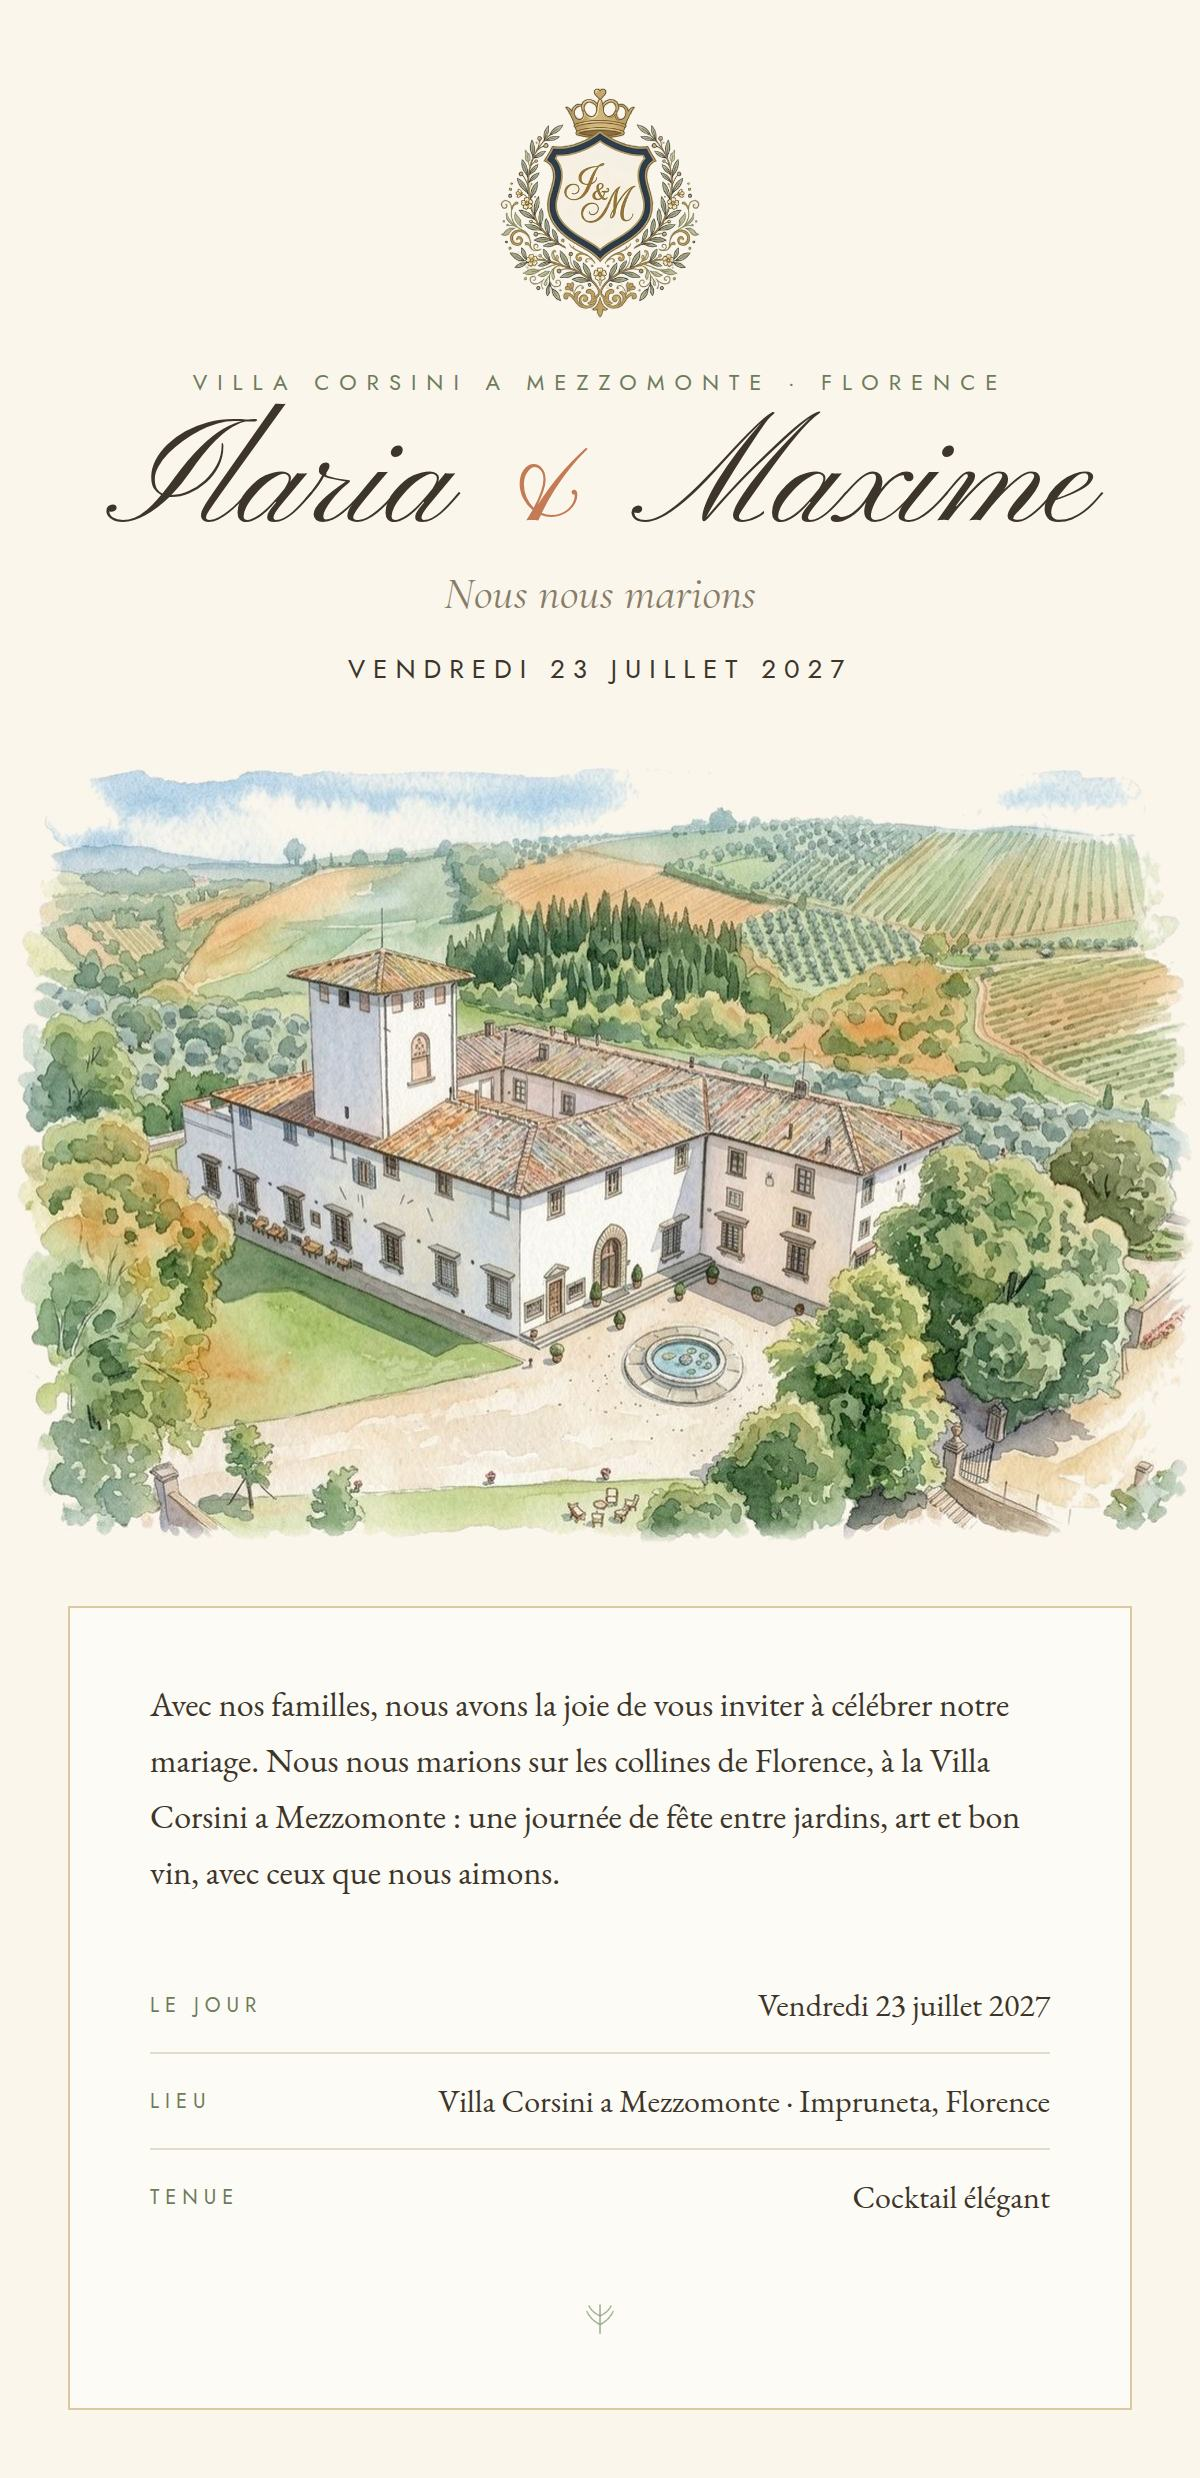
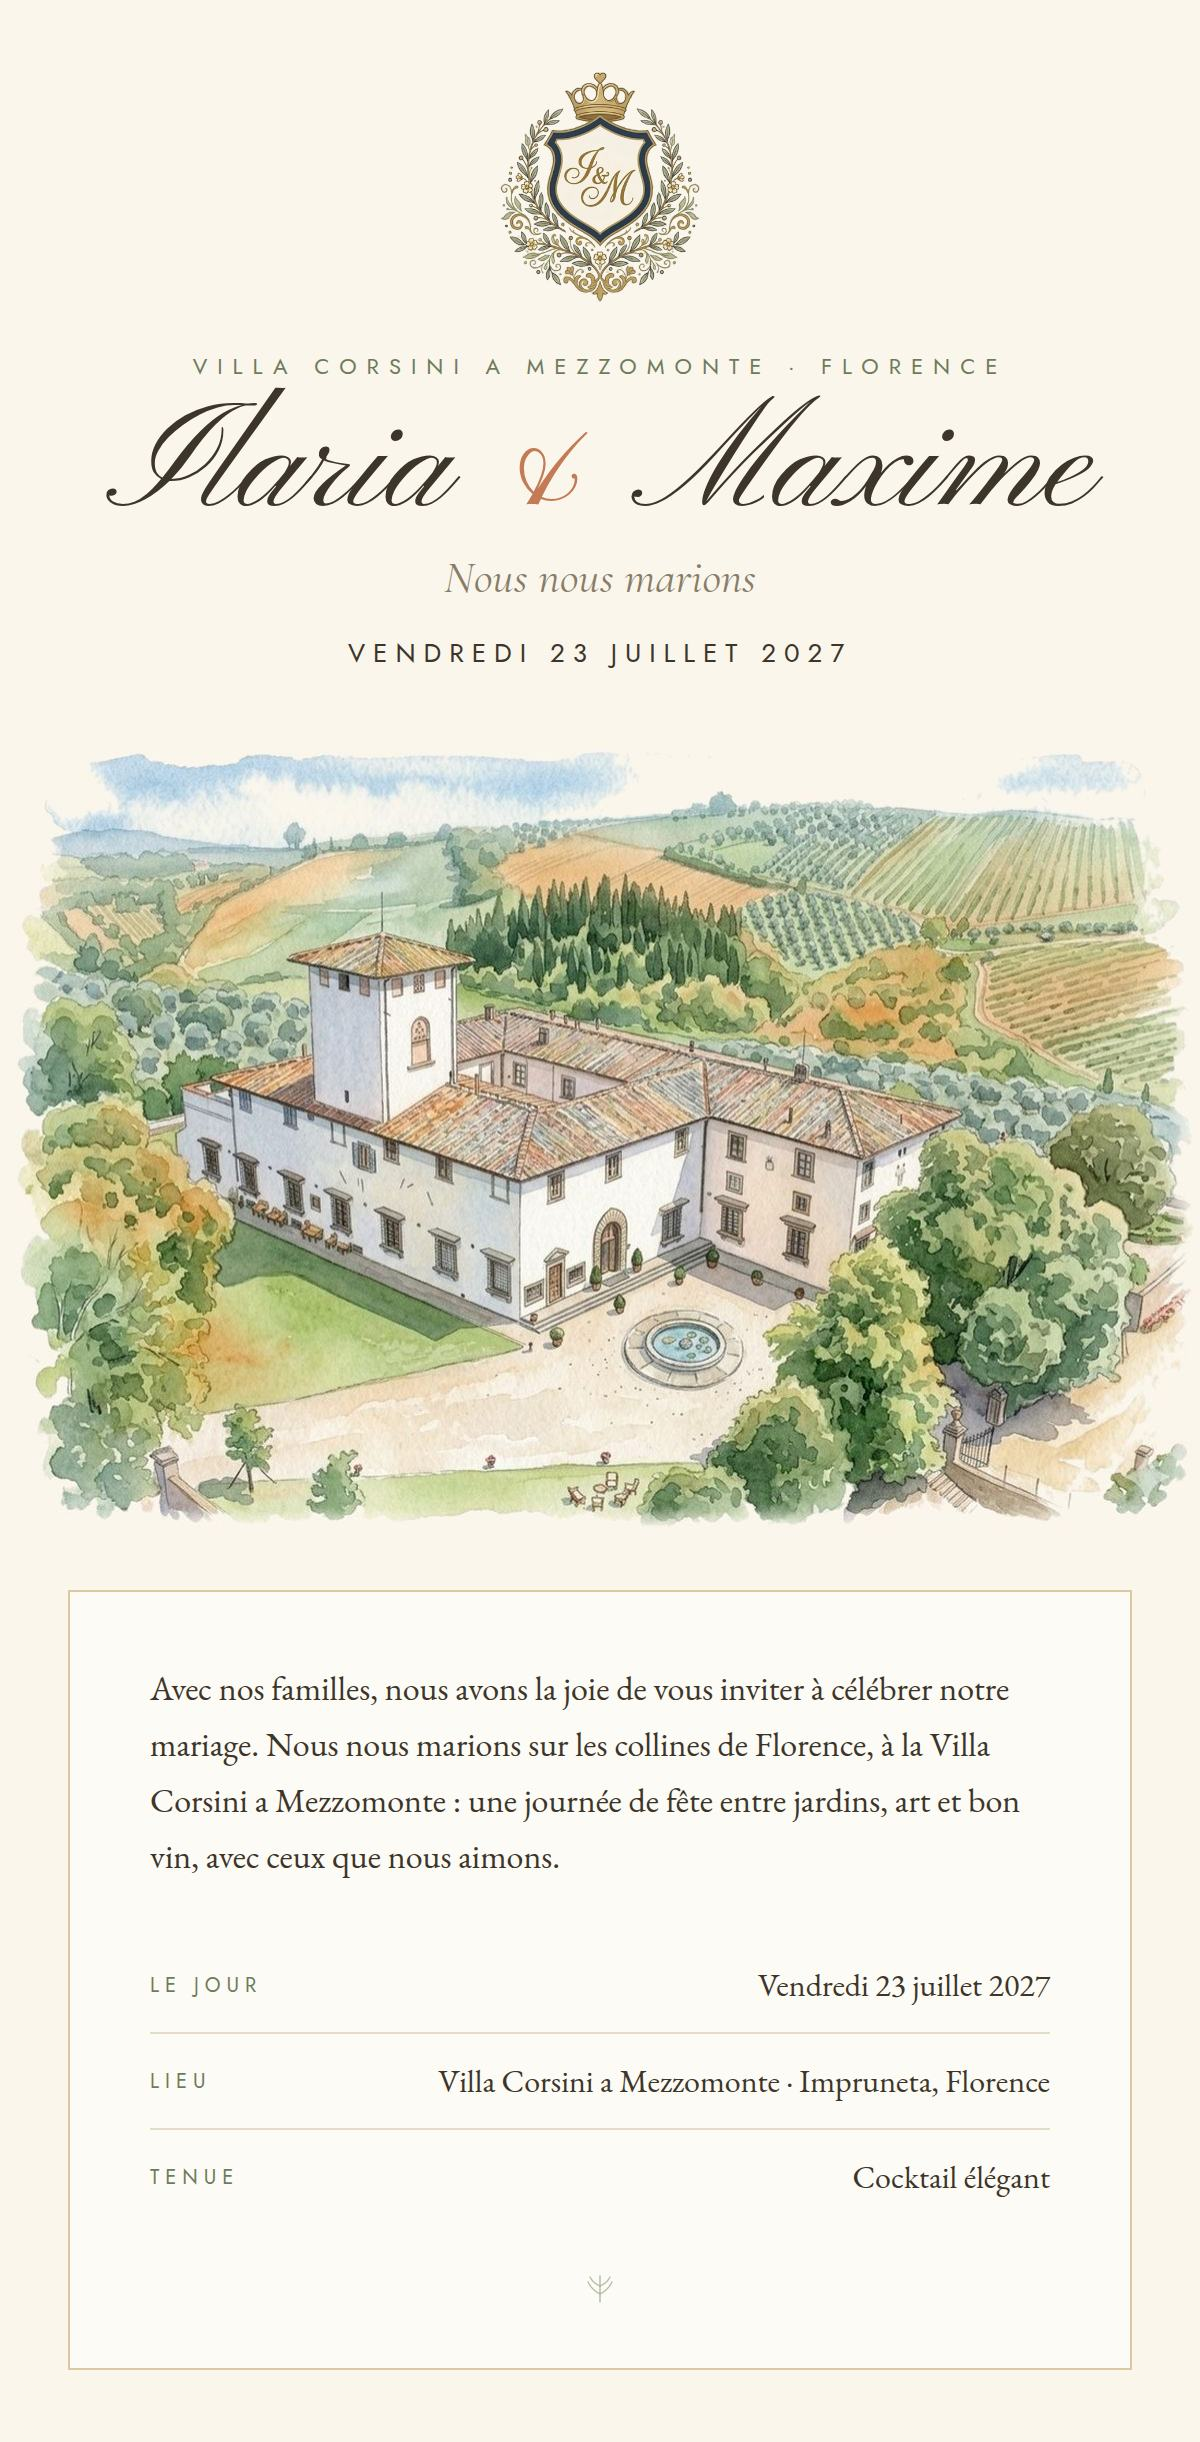
Recompose the invitation as one letter rather than a card with leftovers
Splitting the card out left the email reading as two stapled-together things:
a designed invitation, then a pile of text blocks under it - an orphaned
greeting floating above everything, the personal note in a tinted box, the
plus-one welcome in a different colour again, and the wordmark appearing
twice.

It now reads in three movements, which is how a letter actually works: a
personal opening in the couple's own voice - greeting, their note, the
plus-one welcome, all one paragraph in one colour - then the formal
invitation, then one compact strip telling the guest how to reply. One
wordmark, at the end, where a signature goes.

The card also kept the space its greeting and plus-one line used to occupy;
its head and foot are tightened to suit what it now holds.

Claude-Session: https://claude.ai/code/session_01WFYf9ePHzRaJm7JcUWVSwK

diff --git a/tools/invites/preview/invite-preview.html b/tools/invites/preview/invite-preview.html
@@ -401,11 +401,14 @@ function buildEmail_(g){
      the card can, in every client, which is how stationery services solve
      this. Everything a guest has to *act* on stays live text below it: the
      password to read, the link to press, the date to remember. */
+  /* Three movements, not a card with leftovers stapled underneath:
+     a personal opening in the couple's own voice, the formal invitation
+     itself, and one compact strip telling the guest how to reply. */
   const html =
 `<!doctype html><html lang="${g.lang}"><head><meta charset="utf-8">
 <meta name="viewport" content="width=device-width,initial-scale=1">
 <meta name="x-apple-disable-message-reformatting">
-<style>a{text-decoration:none} @media (max-width:620px){.px{padding-left:22px!important;padding-right:22px!important}}</style>
+<style>a{text-decoration:none} @media (max-width:620px){.px{padding-left:26px!important;padding-right:26px!important}}</style>
 </head>
 <body style="margin:0;padding:0;background:${T.panna2};">
 <div style="display:none;max-height:0;overflow:hidden;opacity:0;">${c.tag} — ${c.date}, Villa Corsini a Mezzomonte.</div>
@@ -415,20 +418,17 @@ function buildEmail_(g){
 
   <table role="presentation" width="600" cellpadding="0" cellspacing="0" bgcolor="${T.panna}" style="width:600px;max-width:100%;background:${T.panna};">
 
-    <tr><td class="px" style="padding:34px 52px 0;font-family:${T.fDisplay};font-size:22px;color:${T.ink};">${esc_(greet)}</td></tr>
-
-    <tr><td style="padding:24px 0 0;">
+    <tr><td class="px" style="padding:44px 56px 0;font-family:${T.fDisplay};font-size:23px;line-height:1.3;color:${T.ink};">${esc_(greet)}</td></tr>
+${note}${plus}
+    <tr><td style="padding:20px 0 0;">
       <img src="cid:card" width="600" alt="${c.tag} — ${c.vDay}, ${c.vWhere}." style="display:block;border:0;width:100%;height:auto;">
     </td></tr>
 
-    ${note}
-    ${plus}
+    <tr><td class="px" align="center" style="padding:6px 56px 0;font-family:${T.fBody};font-size:16px;line-height:1.62;color:${T.ink};">${c.siteLead}</td></tr>
 
-    <tr><td class="px" align="center" style="padding:26px 52px 0;font-family:${T.fBody};font-size:16px;line-height:1.62;color:${T.ink};">${c.siteLead}</td></tr>
-
-    <tr><td align="center" style="padding:18px 40px 0;">
+    <tr><td align="center" style="padding:20px 40px 0;">
       <table role="presentation" cellpadding="0" cellspacing="0" bgcolor="${T.panna2}" style="border:1px solid ${T.lineGold};background:${T.panna2};">
-        <tr><td align="center" style="padding:11px 28px;">
+        <tr><td align="center" style="padding:11px 30px;">
           <div style="font-family:${T.fUi};font-size:10px;letter-spacing:3px;text-transform:uppercase;color:${T.muted};">${c.pwk}</div>
           <div style="font-family:${T.fUi};font-weight:500;font-size:19px;letter-spacing:5px;color:${T.ink};padding-top:3px;">${esc_(sitePassword_())}</div>
         </td></tr>
@@ -443,16 +443,14 @@ function buildEmail_(g){
 
     <tr><td align="center" style="padding:13px 40px 0;font-family:${T.fUi};font-size:11px;letter-spacing:1px;color:${T.muted};">${c.by(g.replyBy || CFG.RSVP_BY[g.lang])}</td></tr>
 
-    <tr><td align="center" style="padding:30px 16px 0;">
+    <tr><td align="center" style="padding:34px 16px 0;">
       <img src="cid:close" height="20" alt="${c.close}" style="display:block;border:0;height:20px;width:auto;margin:0 auto;">
     </td></tr>
-    <tr><td align="center" style="padding:6px 40px 0;">
-      <img src="cid:wordmark" width="200" alt="Ilaria &amp; Maxime" style="display:block;border:0;width:200px;max-width:100%;height:auto;margin:0 auto;">
+    <tr><td align="center" style="padding:8px 40px 0;">
+      <img src="cid:wordmark" width="180" alt="Ilaria &amp; Maxime" style="display:block;border:0;width:180px;max-width:100%;height:auto;margin:0 auto;">
     </td></tr>
 
-    <tr><td style="padding:30px 40px 0;"><div style="border-top:1px solid ${T.line};"></div></td></tr>
-    <tr><td align="center" class="px" style="padding:16px 40px 4px;font-family:${T.fUi};font-size:10px;letter-spacing:2px;text-transform:uppercase;color:${T.muted};">${c.fl}</td></tr>
-    <tr><td align="center" class="px" style="padding:0 40px 38px;font-family:${T.fBody};font-size:13px;color:${T.muted};">${c.fcLead} <a href="mailto:${CFG.REPLY_TO}" style="color:${T.salviaDeep};">${CFG.REPLY_TO}</a></td></tr>
+    <tr><td align="center" class="px" style="padding:38px 56px 40px;font-family:${T.fBody};font-size:12.5px;color:${T.muted};">${c.fcLead} <a href="mailto:${CFG.REPLY_TO}" style="color:${T.salviaDeep};">${CFG.REPLY_TO}</a></td></tr>
 
   </table>
 </td></tr></table>
@@ -584,13 +582,13 @@ function factRow_(k, v, first){
 }
 
 function noteBlock_(noteHtml){
-  return '<tr><td class="px" style="padding:20px 52px 0;">' +
-    '<table role="presentation" width="100%" cellpadding="0" cellspacing="0" bgcolor="#EEF1EA" style="background:#EEF1EA;border-left:2px solid ' + T.salvia + ';">' +
-    '<tr><td style="padding:15px 18px;font-family:' + T.fBody + ';font-style:italic;font-size:15px;line-height:1.6;color:' + T.ink + ';">' + noteHtml + '</td></tr></table></td></tr>';
+  return '<tr><td class="px" style="padding:16px 56px 0;font-family:' + T.fBody +
+    ';font-style:italic;font-size:16px;line-height:1.66;color:' + T.ink + ';">' + noteHtml + '</td></tr>';
 }
 
 function plusBlock_(txt){
-  return '<tr><td align="center" class="px" style="padding:20px 52px 0;font-family:' + T.fDisplay + ';font-style:italic;font-size:16px;color:' + T.salviaDeep + ';">' + txt + '</td></tr>';
+  return '<tr><td class="px" style="padding:12px 56px 0;font-family:' + T.fBody +
+    ';font-style:italic;font-size:16px;line-height:1.66;color:' + T.ink + ';">' + txt + '</td></tr>';
 }
 
 function plusLine_(c, g){

diff --git a/tools/invites/assets/render-card.js b/tools/invites/assets/render-card.js
@@ -80,7 +80,7 @@ ${face('EBG','EBGaramondItalic.ttf','italic')}
 ${face('Jost','Jost.ttf')}
 *{margin:0;padding:0;box-sizing:border-box}
 body{width:600px;background:#FAF6EC;-webkit-font-smoothing:antialiased}
-.head{text-align:center;padding:42px 40px 0}
+.head{text-align:center;padding:34px 40px 0}
 .crest{width:104px;display:block;margin:0 auto}
 .over{font-family:Jost;font-size:11px;letter-spacing:5px;color:#6E7B5B;text-transform:uppercase;margin-top:22px}
 .names{font-family:Pinyon;font-size:76px;line-height:1;color:#3D352A;margin-top:6px}
@@ -88,14 +88,14 @@ body{width:600px;background:#FAF6EC;-webkit-font-smoothing:antialiased}
 .tag{font-family:Cormorant;font-style:italic;font-size:23px;color:#897C68;margin-top:2px}
 .date{font-family:Jost;font-size:13px;letter-spacing:4px;color:#3D352A;text-transform:uppercase;margin-top:14px}
 .hero{width:100%;display:block;margin-top:28px}
-.letter{margin:30px 34px 34px;background:#FDFBF5;border:1px solid #DCC9A4;padding:34px 40px 34px}
+.letter{margin:30px 34px 36px;background:#FDFBF5;border:1px solid #DCC9A4;padding:34px 40px 30px}
 .body{font-family:EBG;font-size:17px;line-height:1.66;color:#3D352A}
-table.facts{width:100%;border-collapse:collapse;margin-top:28px}
+table.facts{width:100%;border-collapse:collapse;margin-top:26px}
 table.facts td{padding:13px 0;vertical-align:middle}
 table.facts tr+tr td{border-top:1px solid #E4DCC9}
 .k{font-family:Jost;font-size:10px;letter-spacing:3px;text-transform:uppercase;color:#6E7B5B;white-space:nowrap}
 .v{font-family:EBG;font-size:16px;color:#3D352A;text-align:right}
-.sprig{width:22px;display:block;margin:26px auto 0}
+.sprig{width:20px;display:block;margin:22px auto 0;opacity:.85}
 </style>
 <div class="head">
   <img class="crest" src="${dataUri(path.join(IMG,'email-crest.png'),'image/png')}">
